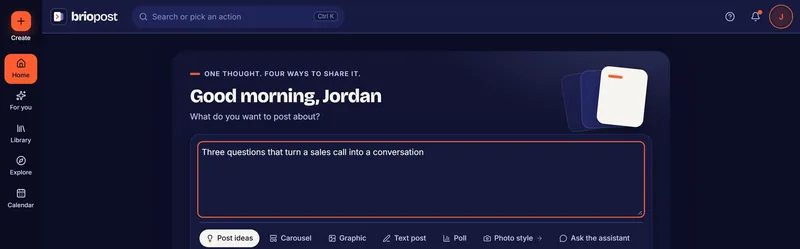
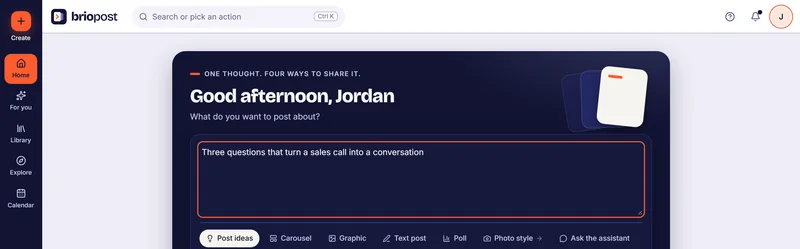
Studio screenshots in the app's light look

diff --git a/index.html b/index.html
@@ -92,7 +92,7 @@
   </div>
   <!-- Real app screenshots (assets/shots/). To add one, copy a <figure> line. -->
   <div class="shots">
-    <figure class="shot shot-wide panel"><img src="assets/shots/studio-home-1600.webp" srcset="assets/shots/studio-home-800.webp 800w, assets/shots/studio-home-1600.webp 1600w" sizes="(max-width: 800px) 100vw, 1170px" width="1600" height="498" loading="lazy" decoding="async" alt="The Briopost home screen in the dark Midnight Stage look, with the thought box filled in (top of the screen only): &quot;Three questions that turn a sales call into a conversation&quot;."><figcaption>Start with one thought. Briopost turns it into a carousel, graphic, text post or poll.</figcaption></figure>
+    <figure class="shot shot-wide panel"><img src="assets/shots/studio-home-1600.webp" srcset="assets/shots/studio-home-800.webp 800w, assets/shots/studio-home-1600.webp 1600w" sizes="(max-width: 800px) 100vw, 1170px" width="1600" height="498" loading="lazy" decoding="async" alt="The Briopost home screen in the light look, with the thought box filled in (top of the screen only): &quot;Three questions that turn a sales call into a conversation&quot;."><figcaption>Start with one thought. Briopost turns it into a carousel, graphic, text post or poll.</figcaption></figure>
     <figure class="shot panel"><img src="assets/shots/studio-editor-1600.webp" srcset="assets/shots/studio-editor-800.webp 800w, assets/shots/studio-editor-1600.webp 1600w" sizes="(max-width: 800px) 100vw, 580px" width="1600" height="1000" loading="lazy" decoding="async" alt="The Briopost carousel editor with a photo cover slide selected, showing an orange edge, and the next slide beside it."><figcaption>Edit every slide in a real editor, with the active slide outlined in orange.</figcaption></figure>
     <figure class="shot panel"><img src="assets/shots/studio-calendar-1600.webp" srcset="assets/shots/studio-calendar-800.webp 800w, assets/shots/studio-calendar-1600.webp 1600w" sizes="(max-width: 800px) 100vw, 580px" width="1600" height="1000" loading="lazy" decoding="async" alt="The Briopost calendar for November with several carousel and text posts planned across the month."><figcaption>Plan the month on a calendar. Nothing posts until you confirm it.</figcaption></figure>
   </div>
